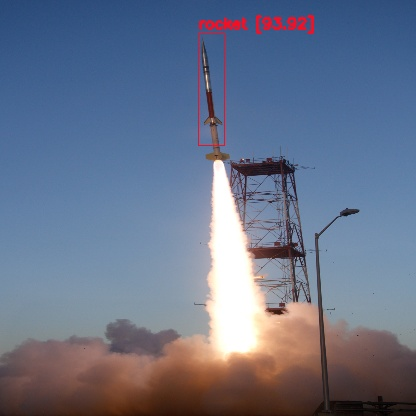
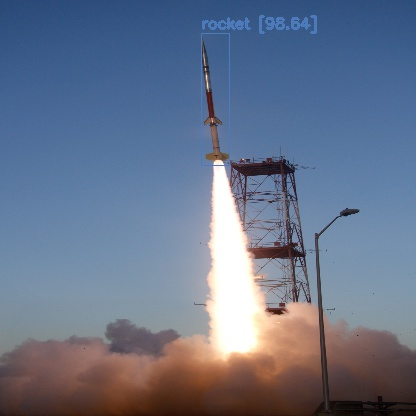
update the benchmarking for detection

Changed region(s): [[0.4688, 0.0312, 0.7812, 0.375]]

diff --git a/pipeline.py b/pipeline.py
@@ -108,7 +108,7 @@ class Pipeline:
     images = map(lambda path: cv2.imread(path), images_path)
     
     # measure the time elapsed
-    t0 = time.time()
+    times = []
     # number of detections
     detected = 0
 
@@ -117,7 +117,9 @@ class Pipeline:
       if image is None:
         sys.exit("The image could not be found !")
 
+      t0 = time.time()
       detections, image = detector.detect(image)
+      times.append(time.time() - t0)
 
       if detections:
         detected += 1
@@ -128,11 +130,13 @@ class Pipeline:
           if cv2.waitKey() & 0xFF == ord('q'):
             break
 
-    t1 = time.time() - t0
     if benchmark:
-      print("Time elapsed: {:.2f}s".format(t1))
-      print("{:d} detections for {:d} images, {:.2f}% accuracy.".format(detected, len(images_path), detected/len(images_path)*100))
-      print("Performance: {:.2f} fps".format(len(images_path)/t1))
+      total = sum(times)
+      maximum = max(times)
+      size = len(images_path)
+      print("Time elapsed: {:.2f}s / Average: {:.2f}ms / Max: {:.2f}ms".format(total, total*1000/size, maximum*1000))
+      print("{:d} detections for {:d} images, {:.2f}% accuracy.".format(detected, size, detected/size*100))
+      print("Performance: {:.2f} fps".format(size / total))
 
 
 if __name__ == '__main__':

diff --git a/README.md b/README.md
@@ -6,7 +6,20 @@ The tracker detects the rocket on a camera feed and adjust its movement mechanis
 
 ## Requirement
 
-TODO
+Install the following packages in order to run the tracker:
+
+For all methods:
+- `OpenCV`
+
+For YOLO (and tiny YOLO):
+- 
+
+For SiamRPN:
+- 
+
+Here are the steps to install the requirements using `conda`:
+
+`conda create -n mantistracker -c anaconda opencv`
 
 ## Usage
 
